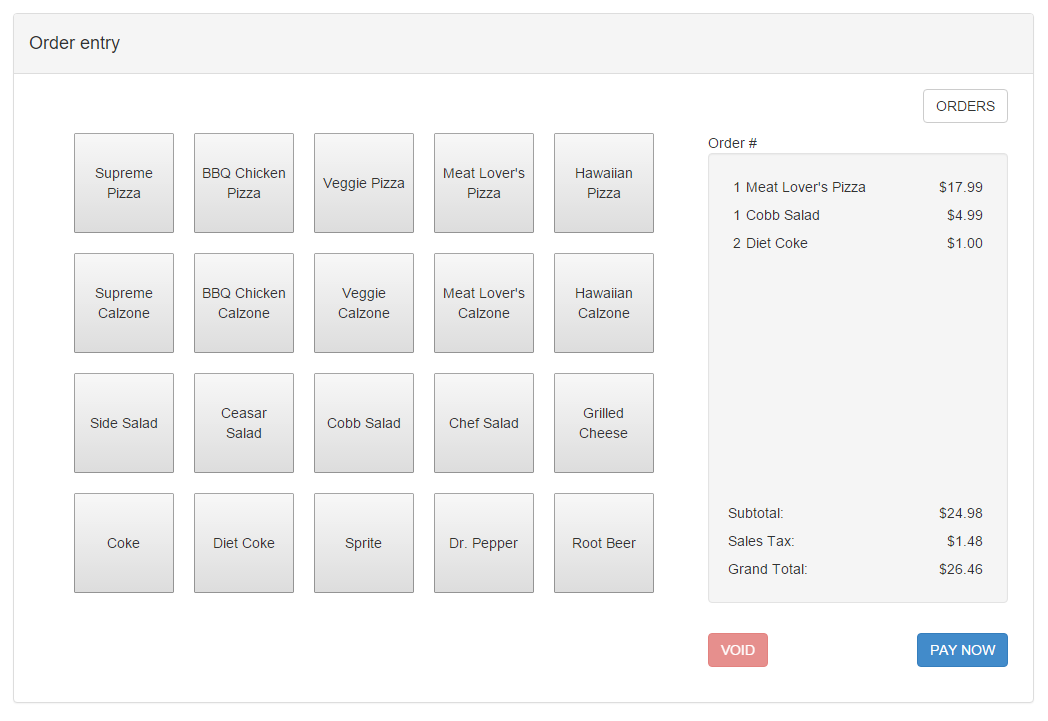
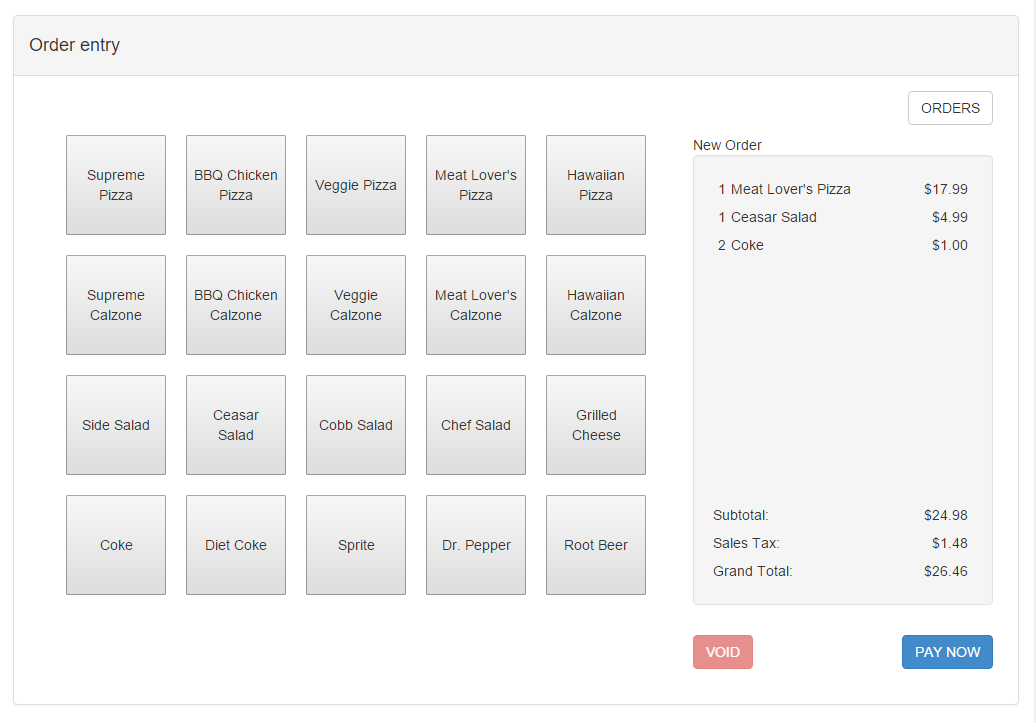
Fixed "New order" not always displaying correctly

diff --git a/src/main/webapp/js/services/orderStatus.js b/src/main/webapp/js/services/orderStatus.js
@@ -74,7 +74,7 @@ posModule.service('orderStatus', function ($http, orderPersistence) {
         },
 
         hasOrderNumber: function () {
-            return isFinite(orderNumber);
+            return orderNumber && isFinite(orderNumber);
         },
 
         getOrderNumber: function () {

diff --git a/README.md b/README.md
@@ -49,9 +49,12 @@ In a real web app, things would be a bit different:
    
 Screenshots
 -----------
-   
+
+*List of orders:*
+![List of orders](/docs/orderList.png?raw=true "List of orders")
+
+*Order entry:*
 ![Order entry](/docs/orderEntry.png?raw=true "Order entry")
 
+*Payment dialog:*
 ![Payment dialog](/docs/paymentDialog.png?raw=true "Payment dialog")
-
-![List of orders](/docs/orderList.png?raw=true "List of orders")
